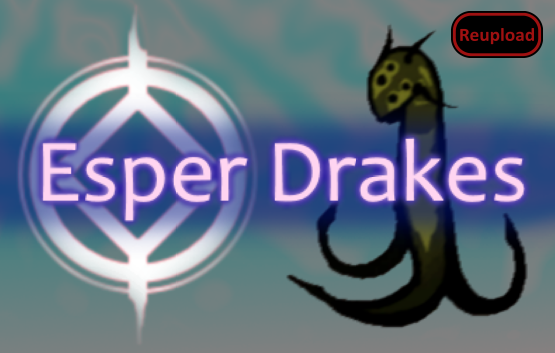
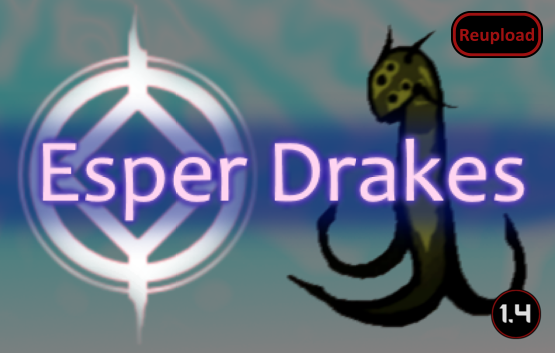
Last update, added end-of-life message

Changed region(s): [[0.8883, 0.8102, 0.9802, 0.966]]

diff --git a/README.md b/README.md
@@ -5,7 +5,7 @@
 Update of Squidd and J.C.Wilsons mod
 https://steamcommunity.com/sharedfiles/filedetails/?id=2020737334
 
-![Image](https://i.imgur.com/pufA0kM.png)
+![Image](https://i.imgur.com/KFjAmff.png)
 
 	
 ![Image](https://i.imgur.com/Z4GOv8H.png)
@@ -32,12 +32,13 @@ This mod also introduces a custom scenario granting the player five Drakes in th
 
 -  See if the the error persists if you just have this mod and its requirements active.
 -  If not, try adding your other mods until it happens again.
--  Post your error-log using https://steamcommunity.com/workshop/filedetails/?id=818773962]HugsLib and command Ctrl+F12
+-  Post your error-log using https://steamcommunity.com/workshop/filedetails/?id=818773962]HugsLib or the standalone https://steamcommunity.com/sharedfiles/filedetails/?id=2873415404]Uploader and command Ctrl+F12
 -  For best support, please use the Discord-channel for error-reporting.
 -  Do not report errors by making a discussion-thread, I get no notification of that.
 -  If you have the solution for a problem, please post it to the GitHub repository.
+-  Use https://github.com/RimSort/RimSort/releases/latest]RimSort to sort your mods
 
 
 
+https://steamcommunity.com/sharedfiles/filedetails/changelog/2559694451]![Image](https://img.shields.io/github/v/release/emipa606/EsperDrakes?label=latest%20version&style=plastic&color=9f1111&labelColor=black)
 
-https://steamcommunity.com/sharedfiles/filedetails/changelog/2559694451]Last updated 2023-01-09
